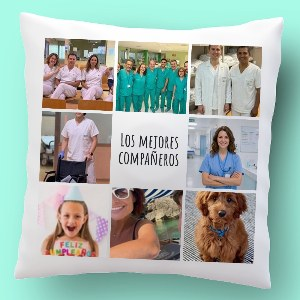
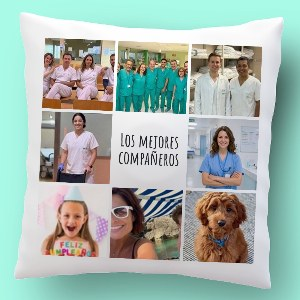
Inicio: productos «Próximamente» al final; collage de ejemplo del cojín mejor encuadrado
Claude-Session: https://claude.ai/code/session_014LaVcs7QACvCHdKPm98Axt

Changed region(s): [[0.12, 0.12, 0.87, 0.9], [0.63, 0.12, 0.87, 0.39]]

diff --git a/index.html b/index.html
@@ -199,14 +199,6 @@ footer small{display:block;margin-top:14px;opacity:.92}
           </div>
         </article>
         <article class="prod">
-          <div class="foto"><svg viewBox="0 0 24 24" aria-hidden="true"><circle cx="7" cy="7" r="3.500"/><path d="M9.500 9.500L20 20M15 15l2.500-2.500M18 18l2-2"/></svg><span class="etq">Próximamente</span></div>
-          <div class="cuerpo"><h3>Llaveros de cinta</h3><p>Pequeños detalles, grandes emociones.</p><div class="pronto">Próximamente</div></div>
-        </article>
-        <article class="prod">
-          <div class="foto"><svg viewBox="0 0 24 24" aria-hidden="true"><path d="M5 7h12v8a5 5 0 0 1-5 5h-2a5 5 0 0 1-5-5z"/><path d="M17 9h2a2.500 2.500 0 0 1 0 5h-2M9 3v2M13 3v2"/></svg><span class="etq">Próximamente</span></div>
-          <div class="cuerpo"><h3>Tazas</h3><p>Para las pausas que nos dan fuerza.</p><div class="pronto">Próximamente</div></div>
-        </article>
-        <article class="prod">
           <div class="foto alto"><img src="img/ejemplo-cojin.jpg" alt="Cojín personalizado con el diseño de jubilación del quirófano" loading="lazy" style="object-fit:cover;padding:0"><span class="etq ok">Disponible</span></div>
           <div class="cuerpo">
             <h3>Cojines</h3>
@@ -216,13 +208,21 @@ footer small{display:block;margin-top:14px;opacity:.92}
           </div>
         </article>
         <article class="prod">
-          <div class="foto alto rota"><img class="on" src="img/ejemplo-cojin-fotos-collage.jpg?v=1" alt="Cojín con un collage de fotos y un texto en el centro" loading="lazy" style="object-fit:cover;padding:0"><img src="img/ejemplo-cojin-fotos-una.jpg?v=2" alt="Cojín con una foto grande y un texto abajo" loading="lazy" style="object-fit:cover;padding:0"><span class="etq ok">Nuevo</span></div>
+          <div class="foto alto rota"><img class="on" src="img/ejemplo-cojin-fotos-collage.jpg?v=2" alt="Cojín con un collage de fotos y un texto en el centro" loading="lazy" style="object-fit:cover;padding:0"><img src="img/ejemplo-cojin-fotos-una.jpg?v=2" alt="Cojín con una foto grande y un texto abajo" loading="lazy" style="object-fit:cover;padding:0"><span class="etq ok">Nuevo</span></div>
           <div class="cuerpo">
             <h3>Cojín con tus fotos</h3>
             <p>Tus fotos y tu texto en un cojín blanco de 40 × 40 cm. Una foto grande o un collage de 8 o 9 fotos.</p>
             <div class="precios">19,50 € <span class="iva">IVA incluido</span></div>
             <a class="boton peq" href="cojin-fotos.html">Crear mi cojín <span aria-hidden="true">→</span></a>
           </div>
+        </article>
+        <article class="prod">
+          <div class="foto"><svg viewBox="0 0 24 24" aria-hidden="true"><circle cx="7" cy="7" r="3.500"/><path d="M9.500 9.500L20 20M15 15l2.500-2.500M18 18l2-2"/></svg><span class="etq">Próximamente</span></div>
+          <div class="cuerpo"><h3>Llaveros de cinta</h3><p>Pequeños detalles, grandes emociones.</p><div class="pronto">Próximamente</div></div>
+        </article>
+        <article class="prod">
+          <div class="foto"><svg viewBox="0 0 24 24" aria-hidden="true"><path d="M5 7h12v8a5 5 0 0 1-5 5h-2a5 5 0 0 1-5-5z"/><path d="M17 9h2a2.500 2.500 0 0 1 0 5h-2M9 3v2M13 3v2"/></svg><span class="etq">Próximamente</span></div>
+          <div class="cuerpo"><h3>Tazas</h3><p>Para las pausas que nos dan fuerza.</p><div class="pronto">Próximamente</div></div>
         </article>
       </div>
 

diff --git a/cojin-fotos.html b/cojin-fotos.html
@@ -154,7 +154,7 @@ function vForm(){ return S.paso==="datos"?vDatos():vDiseno(); }
 function vDiseno(){
   const m=M(), n=hs().length, puestas=fotosAct().filter(Boolean).length;
   const modelos='<section class="card"><h2>1. Elige el modelo</h2><div class="mods">'+Object.values(F.MODELOS).map(x=>
-    '<div class="modw"><button type="button" class="mod" data-mod="'+x.id+'" aria-pressed="'+(S.modelo===x.id)+'"><img src="disenos/cojin_fotos/mini_'+x.id+'.jpg?v=2" alt="" width="300" height="300"><b>'+esc(x.nombre)+'</b><span>'+esc(x.desc)+'</span></button>'+QLVisor.lupa('data-ver="'+x.id+'"',x.nombre)+'</div>').join("")+
+    '<div class="modw"><button type="button" class="mod" data-mod="'+x.id+'" aria-pressed="'+(S.modelo===x.id)+'"><img src="disenos/cojin_fotos/mini_'+x.id+'.jpg?v=3" alt="" width="300" height="300"><b>'+esc(x.nombre)+'</b><span>'+esc(x.desc)+'</span></button>'+QLVisor.lupa('data-ver="'+x.id+'"',x.nombre)+'</div>').join("")+
     '</div><p class="small">Las fotos de los ejemplos son de muestra: irán las tuyas. Toca la lupa para verlo en grande.</p></section>';
   let rej;
   if(S.modelo==="una") rej='<div class="huecos una">'+hueco(0)+'</div>';
@@ -255,7 +255,7 @@ let ejemplos=null;
 function cargarImg(src){ return new Promise((ok,ko)=>{ const i=new Image(); i.onload=()=>ok(i); i.onerror=()=>ko(new Error("No se pudo cargar "+src)); i.src=src; }); }
 function verGrande(id){
   const L=Object.values(F.MODELOS);
-  const items=L.map(x=>{ const c={modelo:x.id, conTexto:x.id==="collage"?S.conTexto:true, texto:S.textos[x.id], fuente:S.fuente[x.id], color:S.color[x.id], degradado:x.id==="una"?Object.assign({},S.deg):undefined};
+  const items=L.map(x=>{ const c={modelo:x.id, conTexto:x.id==="collage"?S.conTexto:true, texto:S.textos[x.id], fuente:S.fuente[x.id], color:S.color[x.id], degradado:x.id==="una"?Object.assign({},S.deg):undefined, enc:x.id==="una"?[]:Array.from({length:9},(_,i)=>F.EJEMPLO_ENC[i%8])};
     return {nombre:x.nombre, clave:JSON.stringify(c)+S.vista, crear:async()=>{
       if(!ejemplos) ejemplos=Promise.all(EJEMPLOS.map(cargarImg)).catch(e=>{ ejemplos=null; throw e; });
       const ej=await ejemplos, n=F.nFotos(c.modelo,c.conTexto), imgs=x.id==="una"?[ej[8]]:Array.from({length:n},(_,i)=>ej[i%8]);

diff --git a/fotocojin.js b/fotocojin.js
@@ -177,6 +177,8 @@ function dibujarMockup(cv,diseno,foto){
   g.globalCompositeOperation="source-over"; g.globalAlpha=0.55; g.drawImage(diseno,0,0); g.restore();
 }
 
-window.QLFotoCojin={CM,PPP,PRECIO,TRAMOS,FUENTES,COLORES,TAM_DEG,COLORES_DEG,OP_DEG,MODELOS,huecos,nFotos,lleva,cargarFuentes,recorte,ajustarEnc,ppp,dibujar,cargarMockup,dibujarMockup,
+// Encuadre de las fotos de ejemplo del collage (ejemplo1..8.jpg), para que no se corten las cabezas
+const EJEMPLO_ENC=[{z:1,x:.55,y:.5},{z:1,x:.5,y:.5},{z:1,x:.5,y:0},{z:1,x:.5,y:0},{z:1,x:.5,y:.5},{z:1,x:.5,y:.5},{z:1,x:.5,y:.3},{z:1,x:.5,y:.4}];
+window.QLFotoCojin={EJEMPLO_ENC,CM,PPP,PRECIO,TRAMOS,FUENTES,COLORES,TAM_DEG,COLORES_DEG,OP_DEG,MODELOS,huecos,nFotos,lleva,cargarFuentes,recorte,ajustarEnc,ppp,dibujar,cargarMockup,dibujarMockup,
   porModelo:m=>Object.values(MODELOS).find(x=>x.modelo===m)||null};
 })();
